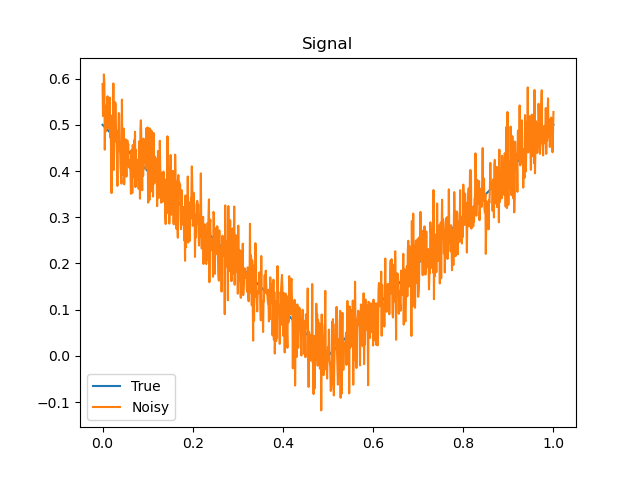
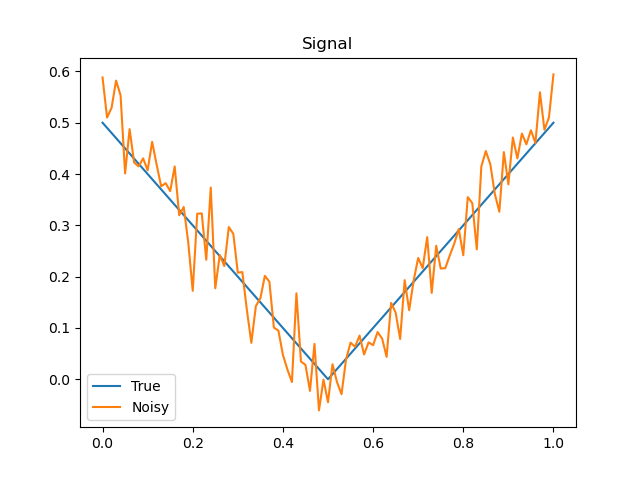
minor adjustment

diff --git a/python/example_abs.py b/python/example_abs.py
@@ -14,7 +14,7 @@ if __name__ == "__main__":
     def deriv_func(x):
         return np.where(x < 0.5, -1, 1)
 
-    n = 1000
+    n = 100
     x_coords = np.linspace(0, 1, n+1)
     data = func(x_coords)
 
@@ -40,6 +40,7 @@ if __name__ == "__main__":
         alpha=0.2,
         no_opt_steps=100,
     )
+    print(f'time: {(time.time() - start):.2f}')
 
     # Plot TVR derivative
     fig2 = plt.figure()
@@ -50,5 +51,4 @@ if __name__ == "__main__":
 
     fig1.savefig('signal.png')
     fig2.savefig('derivative.png')
-    print(f'time: {(time.time() - start):.2f}')
     plt.show()
